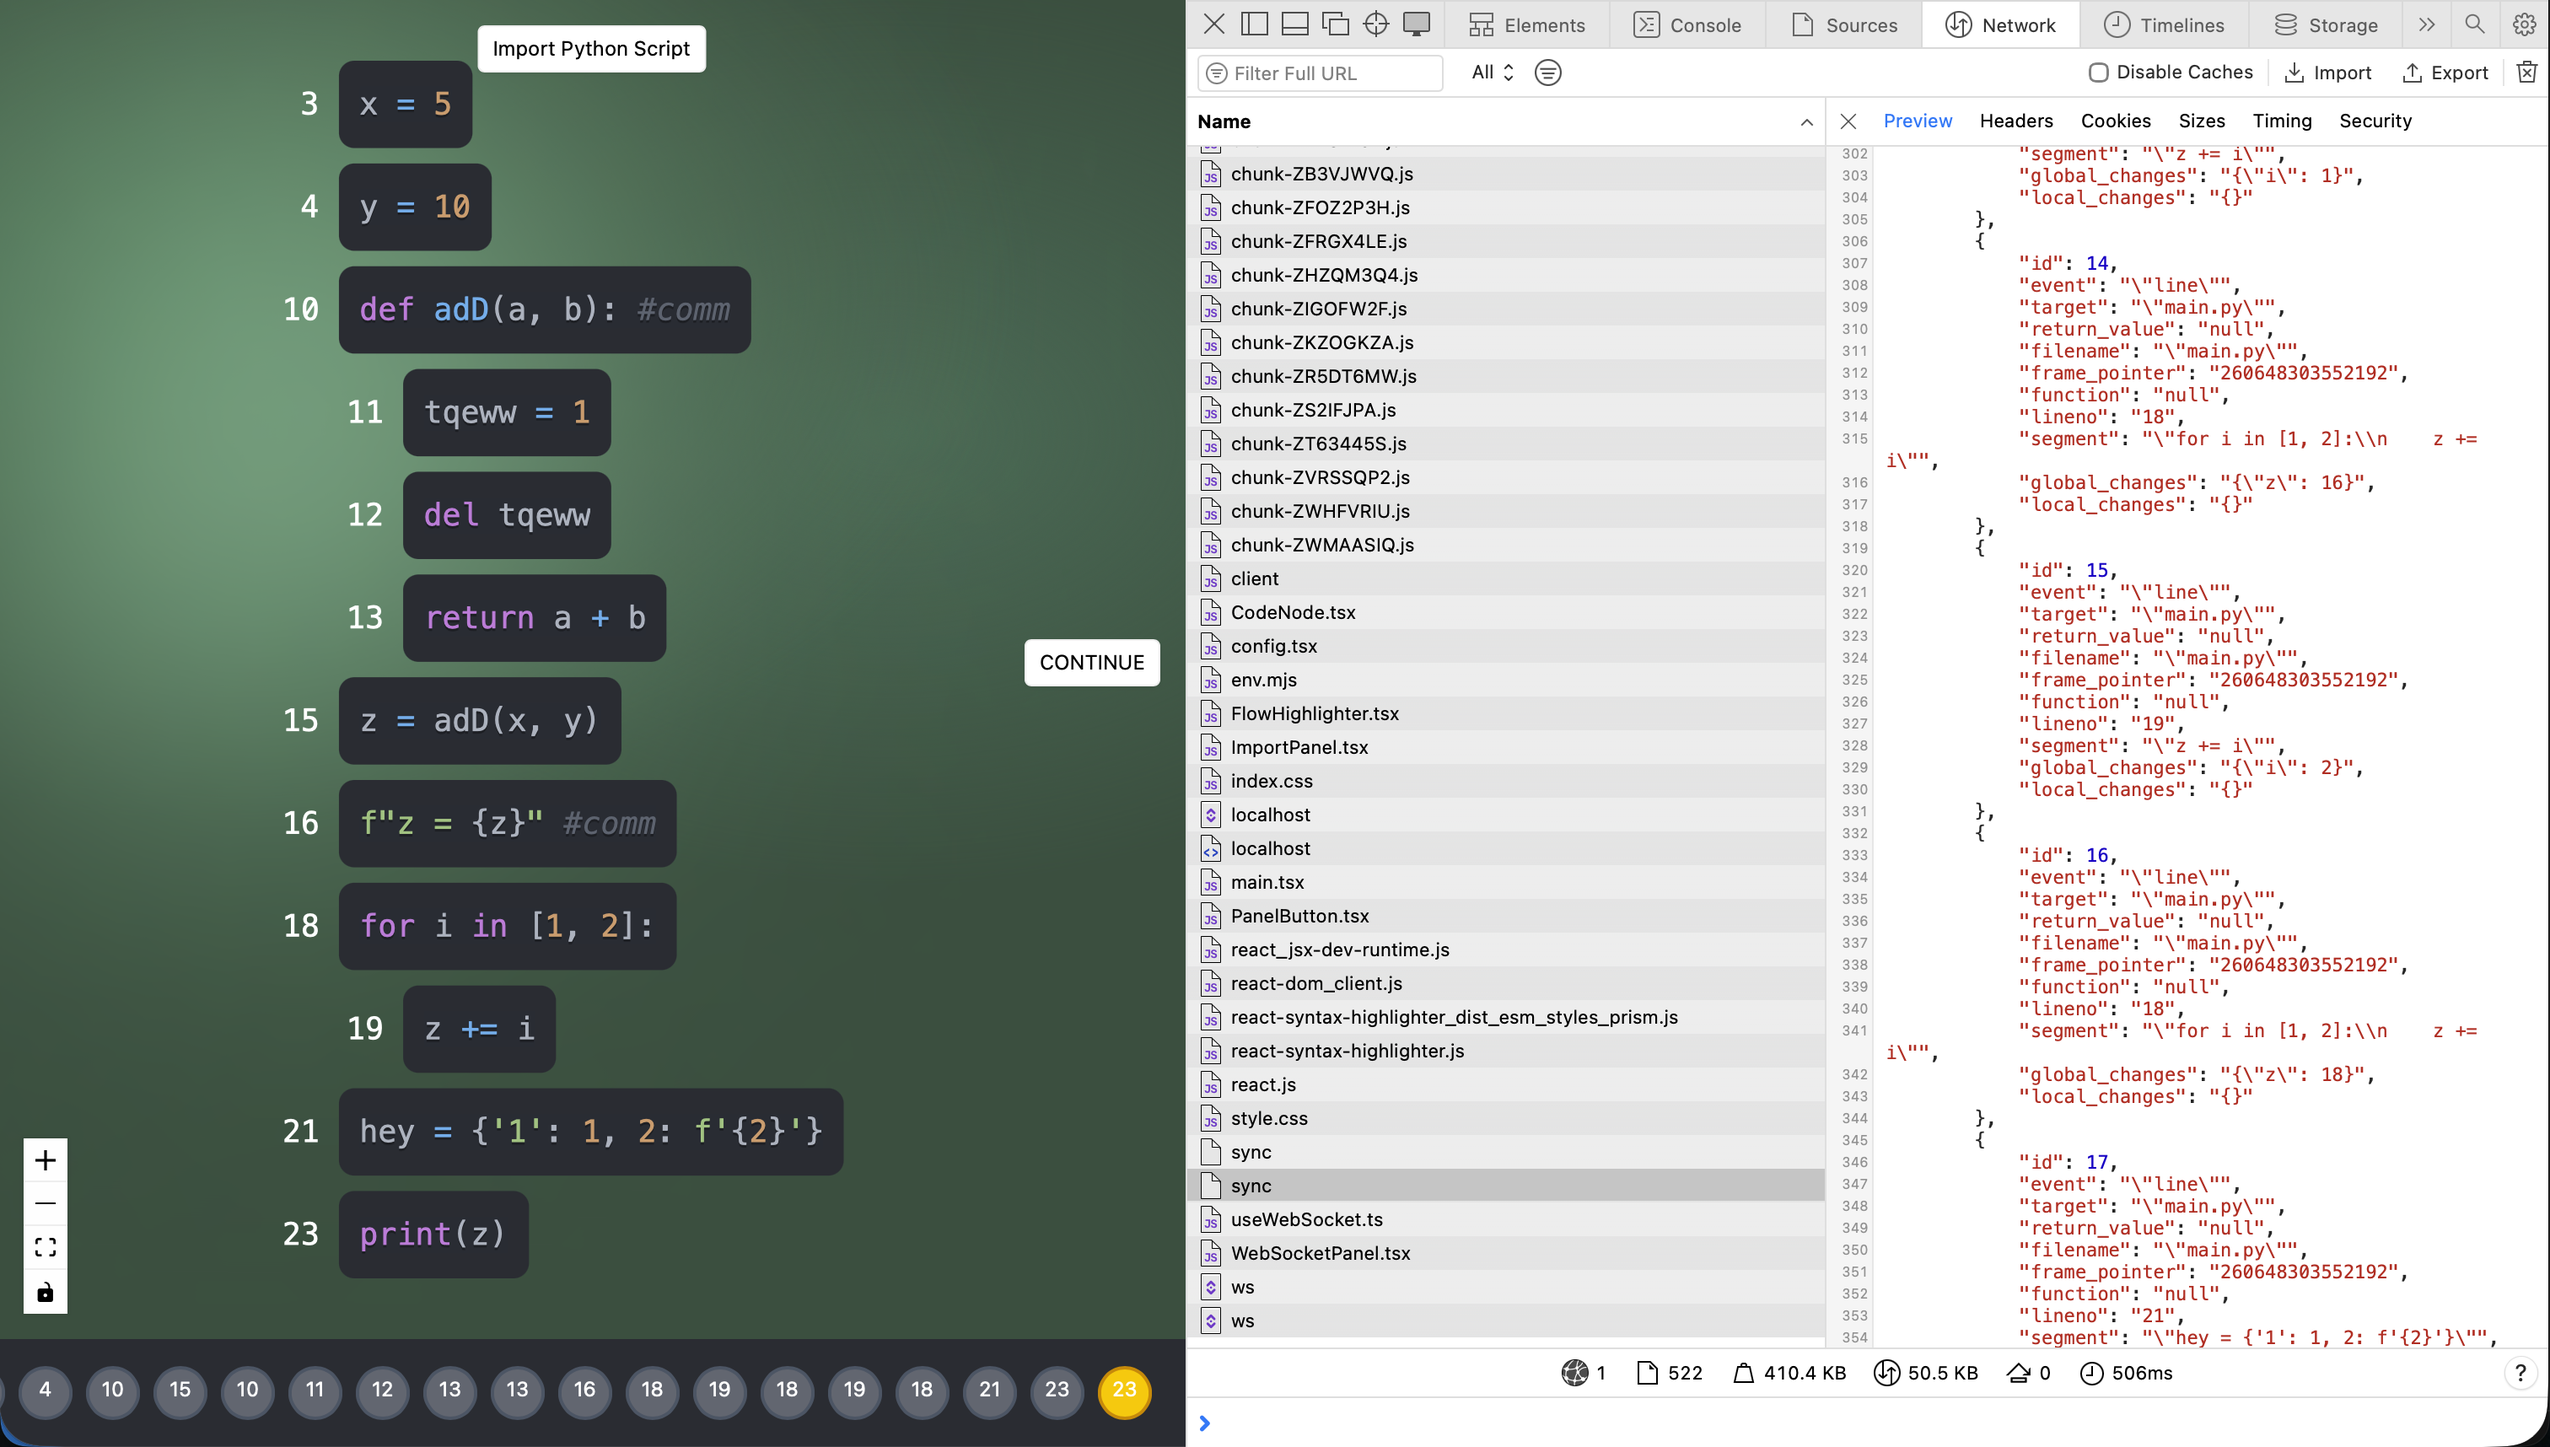
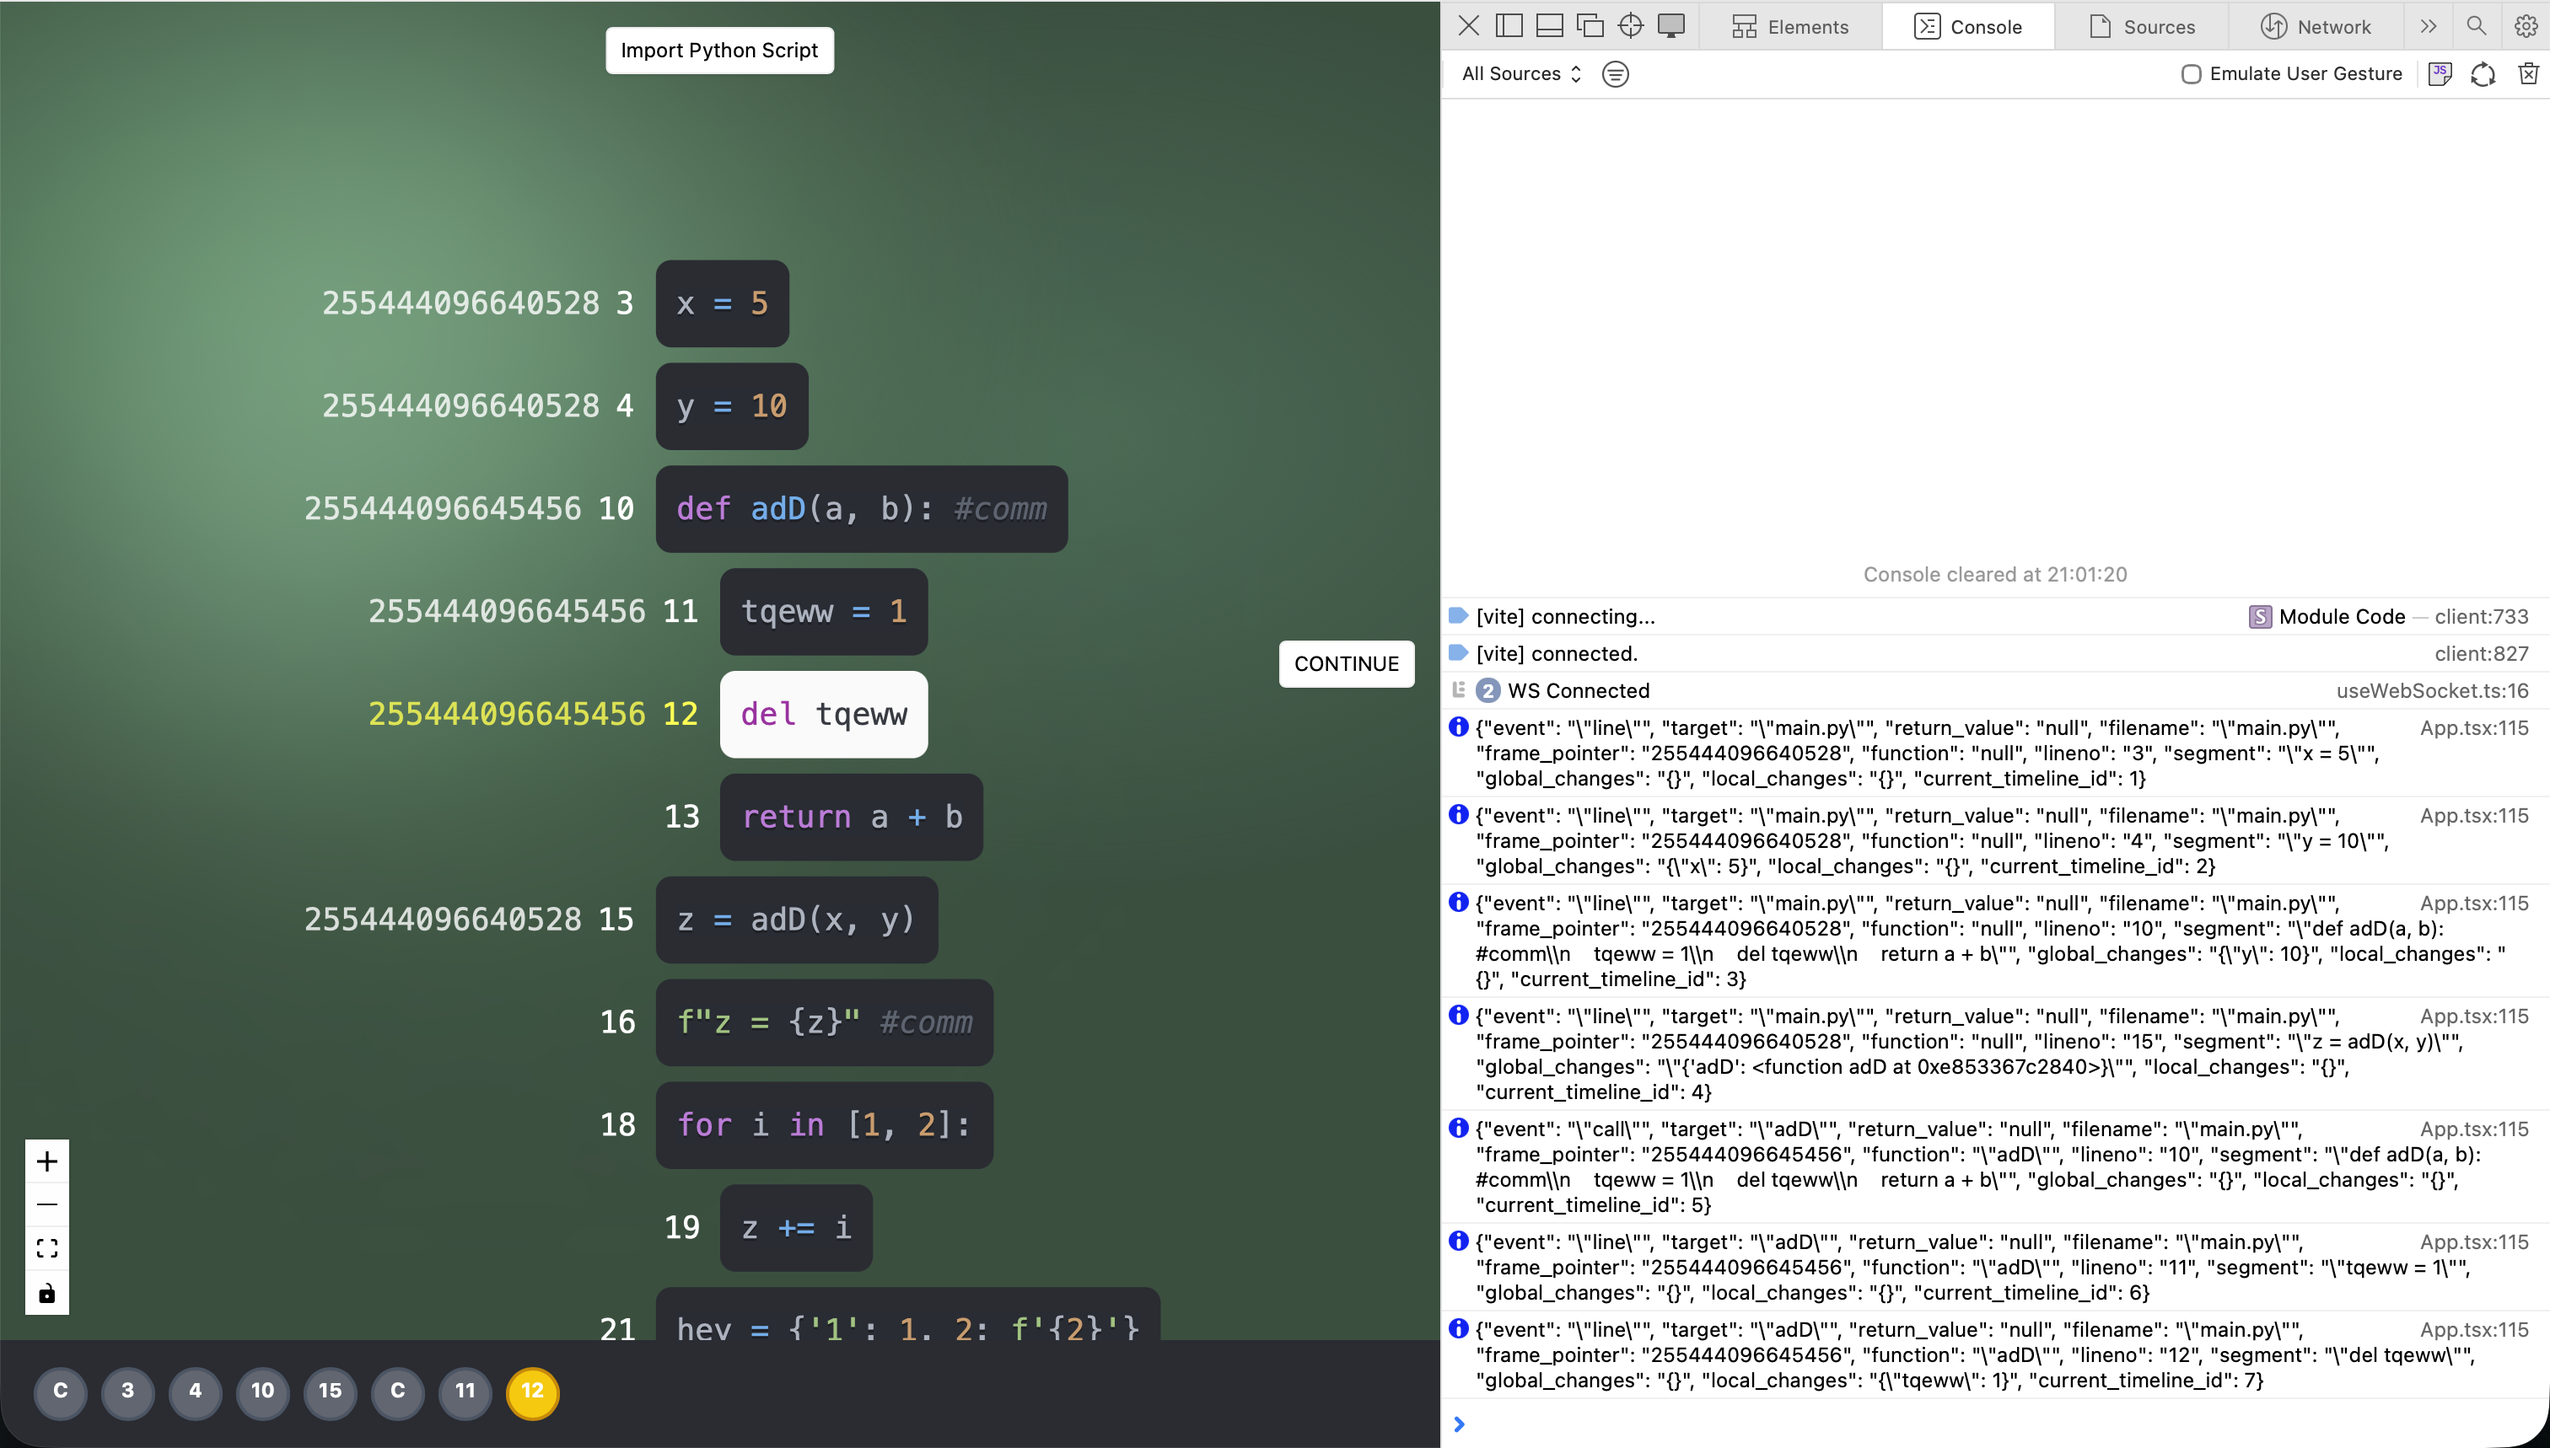
frames and timeline improvements

diff --git a/frontend/src/App.tsx b/frontend/src/App.tsx
@@ -19,9 +19,8 @@ export default function App() {
   const normalizeEvent = (event?: string) =>
     event?.replace(/^"+|"+$/g, '') ?? '';
 
-
   const [nodes, setNodes] = useState<any[]>([]);
-  const [fileImported, setFileImported] = useState(true); //false
+  const [fileImported, setFileImported] = useState(true);
   const [reachedEnd, setReachedEnd] = useState(false);
 
   const [timelineClicked, setTimelineClicked] = useState<boolean | null>(null);
@@ -31,62 +30,81 @@ export default function App() {
 
   const [waitingForResponse, setWaitingForResponse] = useState(false);
 
-  // Store highlight ID WITHOUT remapping nodes (major performance fix)
   const [highlightedId, setHighlightedId] = useState<string | null>(null);
 
   const nodeTypes = useMemo(() => ({ code: CodeNode }), []);
 
   useEffect(() => {
-  syncFromServer();
-}, []);
+    syncFromServer();
+  }, []);
 
-async function syncFromServer() {
-  const res = await fetch(`http${server_uri}/api/sync`);
-  const data = await res.json();
+  async function syncFromServer() {
+    const res = await fetch(`http${server_uri}/api/sync`);
+    const data = await res.json();
 
-  // nodes
-  setNodes(data.nodes);
+    setNodes(data.nodes);
+    setTimelineMessages(data.timeline);
 
-  // timeline
-  setTimelineMessages(data.timeline);
+    if (data.current_timeline_id != null) {
+      const idx = data.timeline.findIndex(
+        (t: any) => t.current_timeline_id === data.current_timeline_id
+      );
 
-if (data.current_timeline_id != null) {
-  const idx = data.timeline.findIndex(
-    (t: any) => t.current_timeline_id === data.current_timeline_id
-  );
+      if (idx >= 0) {
+        const lineno = data.timeline[idx].lineno;
 
-  if (idx >= 0) {
-    const lineno = data.timeline[idx].lineno;
+        setCurrentMessageIndex(idx);
+        setHighlightedId(lineno.toString());
 
-    setCurrentMessageIndex(idx);
-    setHighlightedId(lineno.toString());
-
-    // keep node.data.highlighted in sync (same logic as WS)
-    setNodes(nds =>
-      nds.map(node => {
-        const next = node.id === lineno.toString();
-        if (node.data.highlighted === next) return node;
-        return { ...node, data: { ...node.data, highlighted: next } };
-      })
-    );
-  } else {
-    setCurrentMessageIndex(null);
-    setHighlightedId(null);
+        setNodes(nds =>
+          nds.map(node => {
+            const next = node.id === lineno.toString();
+            if (node.data.highlighted === next) return node;
+            return { ...node, data: { ...node.data, highlighted: next } };
+          })
+        );
+      } else {
+        setCurrentMessageIndex(null);
+        setHighlightedId(null);
+      }
+    } else {
+      setCurrentMessageIndex(null);
+      setHighlightedId(null);
+    }
   }
-} else {
-  setCurrentMessageIndex(null);
-  setHighlightedId(null);
-}
-
-  
-
-}
-
 
   const wipeTimeline = useCallback(() => {
     setTimelineMessages([]);
     setCurrentMessageIndex(null);
   }, []);
+
+  // 🔑 MAP lineno → frame_pointer
+  const frameByLine = useMemo(() => {
+    const map = new Map<string, string>();
+    for (const msg of timelineMessages) {
+      if (msg.lineno && msg.frame_pointer) {
+        map.set(msg.lineno.toString(), msg.frame_pointer);
+      }
+    }
+    return map;
+  }, [timelineMessages]);
+
+  // 🔑 INJECT framePointer into nodes
+  useEffect(() => {
+    setNodes(nds =>
+      nds.map(node => {
+        const framePointer = frameByLine.get(node.id) ?? null;
+        if (node.data.framePointer === framePointer) return node;
+        return {
+          ...node,
+          data: {
+            ...node.data,
+            framePointer,
+          },
+        };
+      })
+    );
+  }, [frameByLine]);
 
   // WebSocket Handler
   useEffect(() => {
@@ -113,43 +131,38 @@ if (data.current_timeline_id != null) {
       setHighlightedId(id);
 
       setNodes(nds =>
-  nds.map(node => {
-    const old = node.data.highlighted;
-    const next = node.id === id;
-    if (old === next) return node;
-    return { ...node, data: { ...node.data, highlighted: next } };
-  })
-);
+        nds.map(node => {
+          const old = node.data.highlighted;
+          const next = node.id === id;
+          if (old === next) return node;
+          return { ...node, data: { ...node.data, highlighted: next } };
+        })
+      );
 
-if (!timelineClicked) {
-  setTimelineMessages(prev => {
-    const id = evt.current_timeline_id;
+      if (!timelineClicked) {
+        setTimelineMessages(prev => {
+          const id = evt.current_timeline_id;
+          const idx = prev.findIndex(
+            m => m.current_timeline_id === id
+          );
 
-    // ищем по уникальному timeline_id
-    const idx = prev.findIndex(
-      m => m.current_timeline_id === id
-    );
+          let next: any[];
 
-    let next: any[];
+          if (idx >= 0) {
+            next = [...prev];
+            next[idx] = { ...prev[idx], ...evt };
+            setCurrentMessageIndex(idx);
+          } else {
+            next = [...prev, evt];
+            if (next.length > 500) next.shift();
+            setCurrentMessageIndex(next.length - 1);
+          }
 
-    if (idx >= 0) {
-      // 🔁 UPDATE существующего события
-      next = [...prev];
-      next[idx] = { ...prev[idx], ...evt };
-      setCurrentMessageIndex(idx);
-    } else {
-      // ➕ ADD нового события
-      next = [...prev, evt];
-      if (next.length > 500) next.shift();
-      setCurrentMessageIndex(next.length - 1);
-    }
-
-    return next;
-  });
-} else {
-  setTimelineClicked(null);
-}
-
+          return next;
+        });
+      } else {
+        setTimelineClicked(null);
+      }
 
     } catch (err) {
       console.error('Failed to parse WS message', err);
@@ -161,15 +174,14 @@ if (!timelineClicked) {
     []
   );
 
-const handleTimelineClick = (index: number) => {
-  const msg = timelineMessages[index];
-  if (!msg) return;
+  const handleTimelineClick = (index: number) => {
+    const msg = timelineMessages[index];
+    if (!msg) return;
 
-  send(msg.current_timeline_id);              // ✅ authoritative
-  setCurrentMessageIndex(index);
-  setTimelineClicked(true);
-};
-
+    send(msg.current_timeline_id);
+    setCurrentMessageIndex(index);
+    setTimelineClicked(true);
+  };
 
   return (
     <div className="w-screen h-screen relative overflow-hidden flex flex-col">
@@ -257,10 +269,8 @@ const handleTimelineClick = (index: number) => {
           panOnScrollSpeed={1}
           className="w-full h-full bg-transparent"
         >
-          {/* Keeps your highlight effect */}
           <FlowHighlighter highlightedId={highlightedId} />
 
-          {/* Your original UI panels */}
           <ImportPanel setNodes={setNodes} setFileImported={setFileImported} />
 
           <WebSocketPanel
@@ -276,7 +286,6 @@ const handleTimelineClick = (index: number) => {
         </ReactFlow>
       </div>
 
-      {/* ------------------- TIMELINE ------------------- */}
       <div className="w-full h-16 flex items-center px-4 overflow-x-auto z-20 bg-[#292C33]">
         {timelineMessages.map((msg, idx) => {
           const isSelected = currentMessageIndex === idx;
@@ -295,22 +304,16 @@ const handleTimelineClick = (index: number) => {
               title={`Timeline index: ${idx}, Line: ${msg.lineno}`}
             >
               <span className="text-xs text-white mt-1 font-bold">
-  {(() => {
-    const event = normalizeEvent(msg.event);
-
-    if (event === 'line') {
-      return msg.lineno;
-    }
-
-    return event.charAt(0).toUpperCase();
-  })()}
-</span>
-
+                {(() => {
+                  const event = normalizeEvent(msg.event);
+                  if (event === 'line') return msg.lineno;
+                  return event.charAt(0).toUpperCase();
+                })()}
+              </span>
             </div>
           );
         })}
       </div>
-
     </div>
   );
 }

diff --git a/frontend/src/CodeNode.tsx b/frontend/src/CodeNode.tsx
@@ -1,4 +1,3 @@
-// CodeNode.tsx
 import { useRef, useEffect, useState } from 'react';
 //import { Handle, Position } from '@xyflow/react';
 import { Prism as SyntaxHighlighter } from 'react-syntax-highlighter';
@@ -8,51 +7,54 @@ interface CodeNodeProps {
   id: string;
   data: {
     label: string;
-    highlighted?: boolean; // add this
+    highlighted?: boolean;
+    framePointer?: string | null;
   };
 }
 
-/*const availableStyles = [
-  coy, dark, funky, okaidia, solarizedlight,
-  tomorrow, twilight, prism, a11yDark, atomDark, base16AteliersulphurpoolLight,
-  cb, coldarkCold, coldarkDark, coyWithoutShadows, darcula, dracula, duotoneDark,
-  duotoneEarth, duotoneForest, duotoneLight, duotoneSea, duotoneSpace, ghcolors,
-  gruvboxDark, gruvboxLight, holiTheme, hopscotch, lucario, materialDark,
-  materialLight, materialOceanic, nightOwl, nord, oneDark, oneLight, pojoaque,
-  shadesOfPurple, solarizedDarkAtom, synthwave84, vs, vscDarkPlus, xonokai, zTouch
-];*/
-
 export default function CodeNode({ id, data }: CodeNodeProps) {
-  const idRef = useRef<HTMLDivElement>(null);
-  const [idWidth, setIdWidth] = useState(0);
+  const labelRef = useRef<HTMLDivElement>(null);
+  const [labelWidth, setLabelWidth] = useState(0);
 
   useEffect(() => {
-    if (idRef.current) {
-      setIdWidth(idRef.current.offsetWidth);
+    if (labelRef.current) {
+      setLabelWidth(labelRef.current.offsetWidth);
     }
-  }, [id]);
+  }, [id, data.framePointer]);
 
-  const idColor = data.highlighted ? '#ffff00' : '#ffffff';
+  const labelColor = data.highlighted ? '#ffff00' : '#ffffff';
 
   return (
     <div style={{ position: 'relative', display: 'inline-block' }}>
+      {/* LABEL — PURE OVERLAY, ZERO LAYOUT IMPACT */}
       <div
-        ref={idRef}
+        ref={labelRef}
         style={{
           position: 'absolute',
           top: '50%',
-          left: -(idWidth + 8),
+          left: -(labelWidth + 8),
           transform: 'translateY(-50%)',
-          color: idColor,
+          color: labelColor,
           fontSize: 12,
           fontFamily: 'monospace',
           fontWeight: 500,
           whiteSpace: 'nowrap',
+          display: 'flex',
+          gap: 6,
+          alignItems: 'center',
+          pointerEvents: 'none',
+          userSelect: 'none',
         }}
       >
-        {id}
+        {data.framePointer && (
+          <span style={{ opacity: 0.8 }}>
+            {data.framePointer}
+          </span>
+        )}
+        <span>{id}</span>
       </div>
 
+      {/* NODE BODY — TRUE SIZE & POSITION */}
       <div
         style={{
           background: data.highlighted ? '#FAFAFA' : '#292C33',
